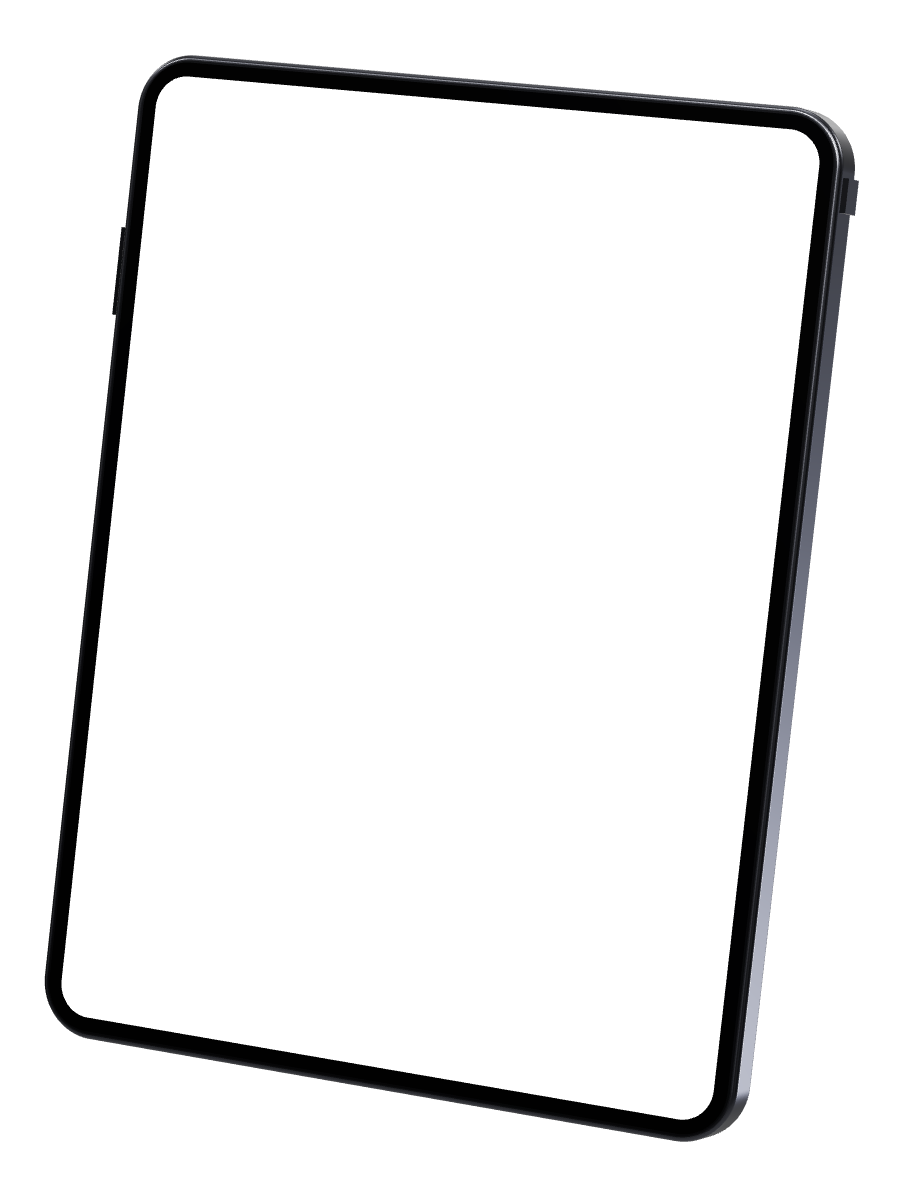
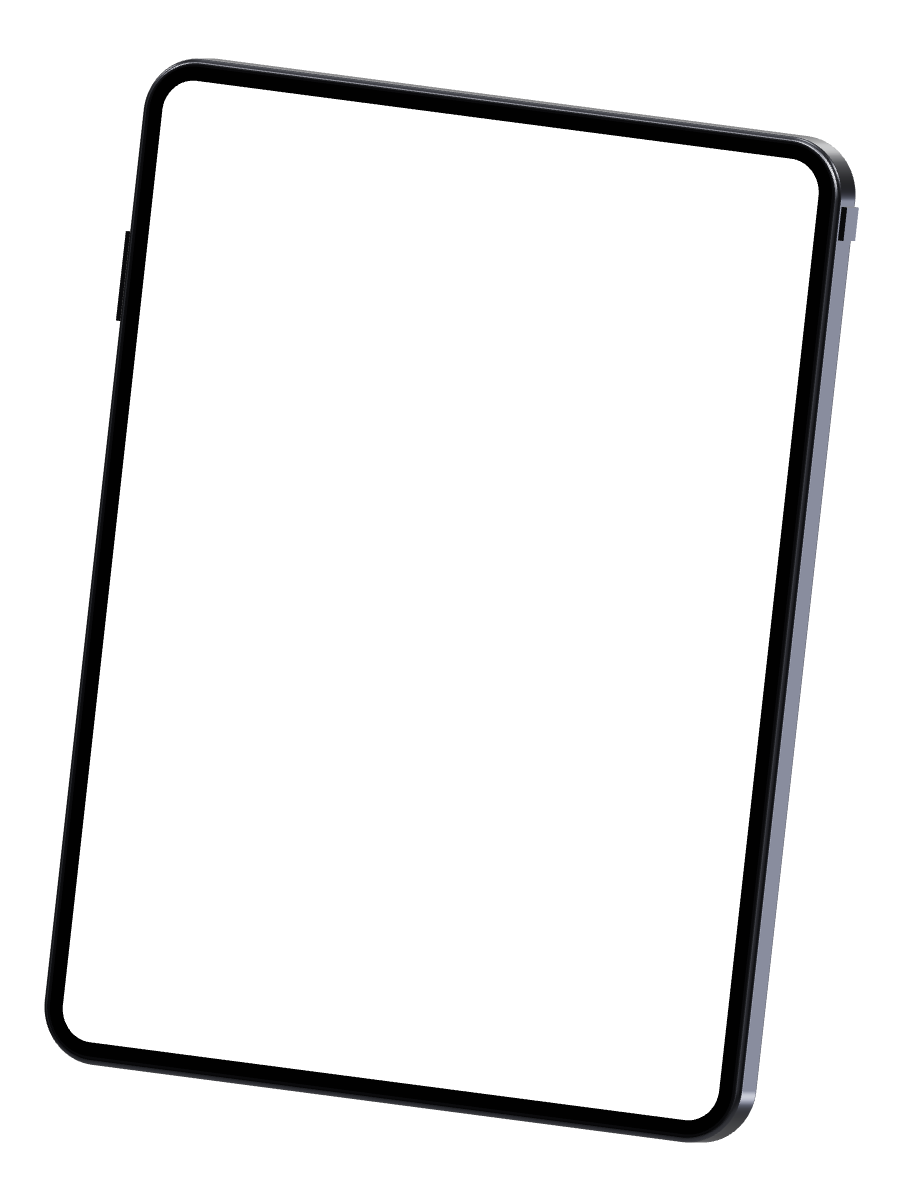
fix: render 3D iPad frames with an orthographic camera so opposite edges stay exactly parallel

Changed region(s): [[0.0311, 0.0308, 0.9644, 0.955]]

diff --git a/scripts/bake-phone-3d/bake.js b/scripts/bake-phone-3d/bake.js
@@ -123,7 +123,13 @@ if (IS_TABLET) {
 phone.rotation.order = 'YXZ';
 phone.rotation.set(ROT.x, ROT.y, ROT.z);
 
-const camera = new THREE.PerspectiveCamera(Number(params.get('fov') ?? 14), OUT_W / OUT_H, 0.1, 100);
+// ortho=1 renders with no perspective at all, so a device's opposite edges stay exactly parallel.
+// The tablet defaults to it (a wide, flat iPad shows perspective convergence far more than a phone does).
+const ORTHO = (params.get('ortho') ?? (IS_TABLET ? '1' : '0')) === '1';
+const ORTHO_HALF_H = 3; // world units from centre to top of the view, before the fit zoom
+const camera = ORTHO
+  ? new THREE.OrthographicCamera(-ORTHO_HALF_H * (OUT_W / OUT_H), ORTHO_HALF_H * (OUT_W / OUT_H), ORTHO_HALF_H, -ORTHO_HALF_H, 1, 40)
+  : new THREE.PerspectiveCamera(Number(params.get('fov') ?? 14), OUT_W / OUT_H, 0.1, 100);
 camera.position.set(0, 0, 12);
 camera.lookAt(0, 0, 0);
 
@@ -146,7 +152,12 @@ function bounds() {
 for (let i = 0; i < 4; i++) {
   const b = bounds();
   const fit = Math.min((OUT_W * 0.9) / (b.maxX - b.minX), (OUT_H * 0.94) / (b.maxY - b.minY));
-  camera.position.z /= fit;
+  if (ORTHO) {
+    camera.zoom *= fit;
+    camera.updateProjectionMatrix();
+  } else {
+    camera.position.z /= fit;
+  }
   camera.lookAt(0, 0, 0);
 }
 {
@@ -154,11 +165,18 @@ for (let i = 0; i < 4; i++) {
   // Re-centre by shifting the phone (keeps perspective consistent)
   const cx = (b.minX + b.maxX) / 2 - OUT_W / 2;
   const cy = (b.minY + b.maxY) / 2 - OUT_H / 2;
-  const worldPerPx = (2 * camera.position.z * Math.tan((camera.fov * Math.PI) / 360)) / OUT_H;
+  const worldPerPx = ORTHO
+    ? (2 * ORTHO_HALF_H) / camera.zoom / OUT_H
+    : (2 * camera.position.z * Math.tan((camera.fov * Math.PI) / 360)) / OUT_H;
   phone.position.x -= cx * worldPerPx;
   phone.position.y += cy * worldPerPx;
 }
 
+if (!ORTHO) {
+  camera.near = Math.max(0.1, camera.position.z - 4);
+  camera.far = camera.position.z + 4;
+  camera.updateProjectionMatrix();
+}
 renderer.render(scene, camera);
 
 // Where the screen's four corners ended up (TL, TR, BR, BL), as 0..1 fractions of the image.

diff --git a/src/phoneFrame.ts b/src/phoneFrame.ts
@@ -186,7 +186,7 @@ export const DEVICE_MODELS: DeviceModel[] = [
       frameUrl: ipad3dFrame,
       frameWidth: 900,
       frameHeight: 1201,
-      quad: [[0.17692, 0.06157], [0.91465, 0.10999], [0.78876, 0.9366], [0.06458, 0.84306]],
+      quad: [[0.18445, 0.06399], [0.91359, 0.13553], [0.79496, 0.93601], [0.06581, 0.86447]],
       screenAspect: 1.3494,
     },
   },
@@ -204,7 +204,7 @@ export const DEVICE_MODELS: DeviceModel[] = [
       frameUrl: ipad3dMirrorFrame,
       frameWidth: 900,
       frameHeight: 1201,
-      quad: [[0.08535, 0.10999], [0.82308, 0.06157], [0.93542, 0.84306], [0.21124, 0.9366]],
+      quad: [[0.08641, 0.13553], [0.81555, 0.06399], [0.93419, 0.86447], [0.20504, 0.93601]],
       screenAspect: 1.3494,
     },
   },
